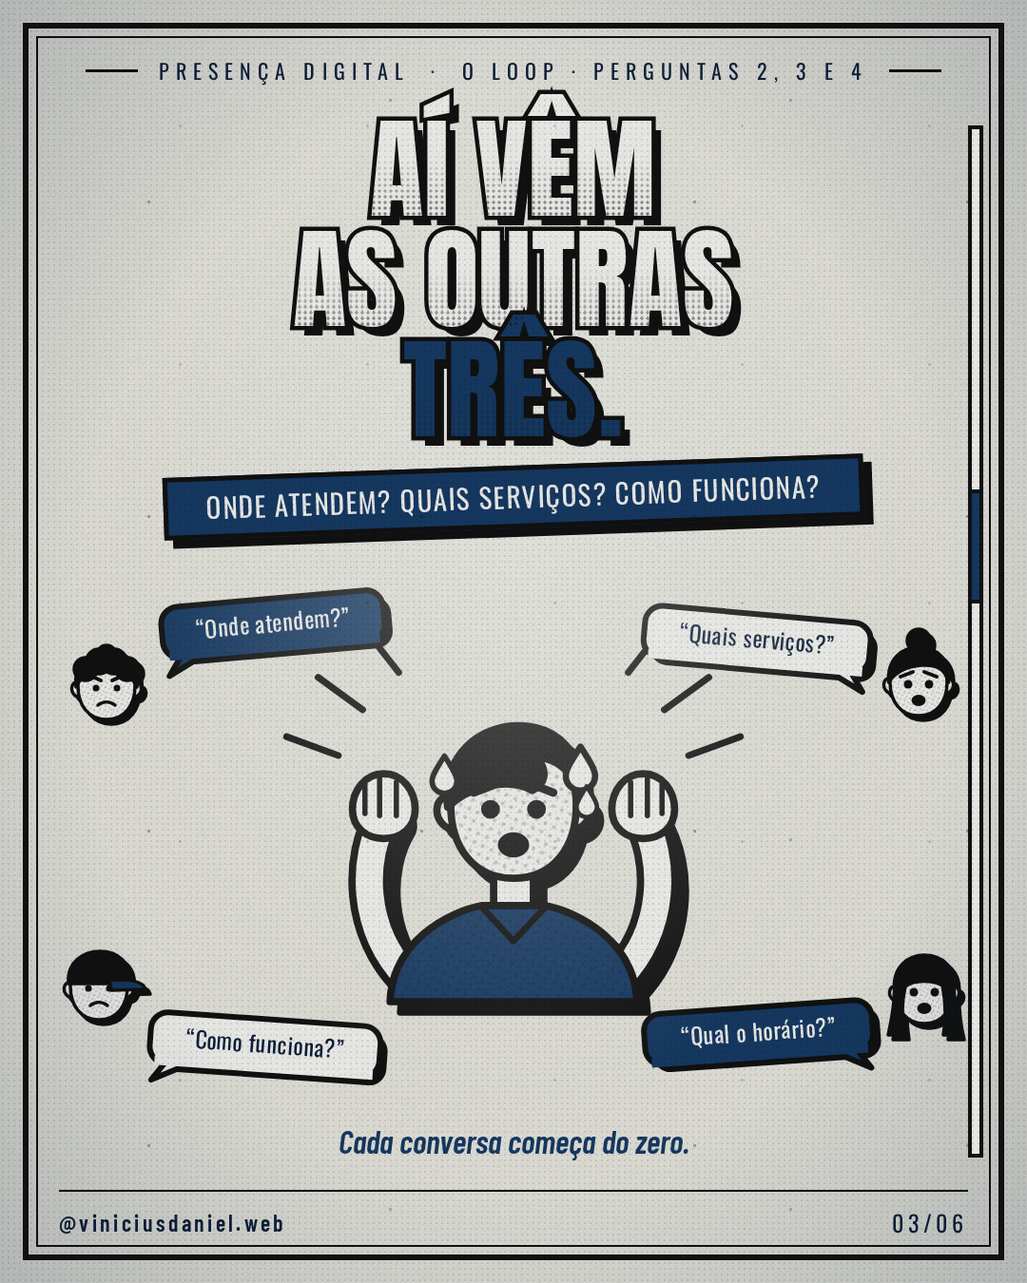
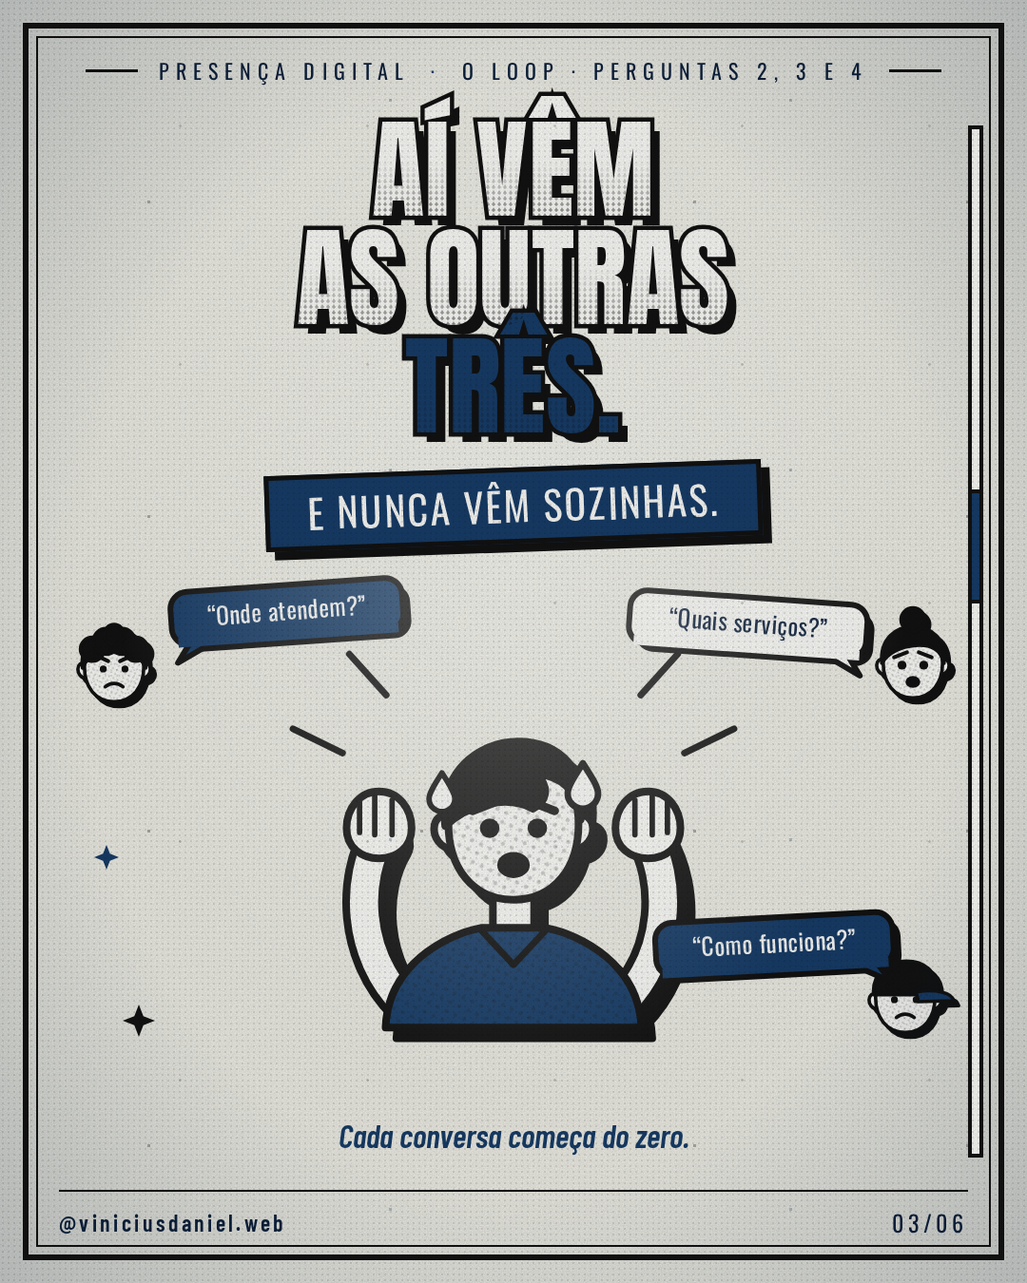
Alivia o quadro 3 e adiciona o prompt do Reels
Quadro 3: de quatro para três clientes e três balões, faixa mais curta
que não repete as perguntas, menos linhas de tensão, personagem central
maior com mais respiro.

PROMPT-REELS.md: prompt pronto para o Claude Designer com formato,
paleta, tipografia, área segura do Instagram, roteiro das 6 cenas com
tempo e animação, ritmo, áudio e restrições.

Claude-Session: https://claude.ai/code/session_01AyRMPHZabwp6dDTAK3QhXg

diff --git a/pages/link-03.html b/pages/link-03.html
@@ -9,8 +9,8 @@
 <div class="page" id="p3">
   <div class="kicker">PRESENÇA DIGITAL <em>·</em> O LOOP · PERGUNTAS 2, 3 E 4</div>
   
-    <div class="hl center" style="top:120px;font-size:116px;"><span class="l" data-t="AÍ VÊM">AÍ VÊM</span><span class="l" data-t="AS OUTRAS">AS OUTRAS</span><span class="l or" data-t="TRÊS.">TRÊS.</span></div>
-    <div class="band center" style="top:490px;font-size:29px;">ONDE ATENDEM? QUAIS SERVIÇOS? COMO FUNCIONA?</div>
+    <div class="hl center" style="top:122px;font-size:114px;"><span class="l" data-t="AÍ VÊM">AÍ VÊM</span><span class="l" data-t="AS OUTRAS">AS OUTRAS</span><span class="l or" data-t="TRÊS.">TRÊS.</span></div>
+    <div class="band center" style="top:492px;">E NUNCA VÊM SOZINHAS.</div>
     <svg class="art " style="display:block" width="1080" height="1350" viewBox="0 0 1080 1350" xmlns="http://www.w3.org/2000/svg">
 <defs>
   <pattern id="ht" width="9" height="9" patternUnits="userSpaceOnUse" patternTransform="rotate(25)">
@@ -26,8 +26,8 @@
     <rect width="4" height="10" fill="#111111"/>
   </pattern>
 </defs>
-      <line x1="355.820246325962" y1="794.9640519081689" x2="301.31807432037925" y2="775.1268835952801" stroke="#111111" stroke-width="7" stroke-linecap="round"/><line x1="381.4326691025103" y1="746.7940905506753" x2="334.5096834287633" y2="712.7025459177119" stroke="#111111" stroke-width="7" stroke-linecap="round"/><line x1="419.330350836171" y1="707.5498922930824" x2="383.62198526728287" y2="661.8452685838926" stroke="#111111" stroke-width="7" stroke-linecap="round"/><line x1="660.669649163829" y1="707.5498922930825" x2="696.3780147327172" y2="661.8452685838927" stroke="#111111" stroke-width="7" stroke-linecap="round"/><line x1="698.5673308974897" y1="746.7940905506753" x2="745.4903165712367" y2="712.7025459177117" stroke="#111111" stroke-width="7" stroke-linecap="round"/><line x1="724.179753674038" y1="794.9640519081689" x2="778.6819256796207" y2="775.1268835952802" stroke="#111111" stroke-width="7" stroke-linecap="round"/>
-      <g transform="translate(540,856) scale(1.1,1.1) rotate(0)">
+      <line x1="360.24119074016653" y1="792.3257706421846" x2="308.1111360548149" y2="766.9002441284181" stroke="#111111" stroke-width="7" stroke-linecap="round"/><line x1="406.1738787282283" y1="731.3710349045211" x2="367.3643035594145" y2="688.2686350268323" stroke="#111111" stroke-width="7" stroke-linecap="round"/><line x1="673.8261212717716" y1="731.3710349045211" x2="712.6356964405853" y2="688.2686350268322" stroke="#111111" stroke-width="7" stroke-linecap="round"/><line x1="719.7588092598335" y1="792.3257706421846" x2="771.8888639451851" y2="766.9002441284181" stroke="#111111" stroke-width="7" stroke-linecap="round"/>
+      <g transform="translate(540,876) scale(1.14,1.14) rotate(0)">
     <g transform="translate(10,10)"><path d="M -100,158 C -146,112 -146,42 -122,2" fill="none" stroke="#111111" stroke-width="40" stroke-linecap="round"/><path d="M 100,158 C 146,112 146,42 122,2" fill="none" stroke="#111111" stroke-width="40" stroke-linecap="round"/><path d="M -19,42 L -19,98 L 19,98 L 19,42 Z" fill="#111111" stroke="#111111" stroke-width="7" stroke-linejoin="round"/><path d="M -118,180 C -116,122 -62,94 -30,88 L 30,88 C 62,94 116,122 118,180 Z" fill="#111111" stroke="#111111" stroke-width="7" stroke-linejoin="round"/><path d="M -56,-16 C -78,-22 -80,12 -56,16 Z" fill="#111111" stroke="#111111" stroke-width="7" stroke-linejoin="round"/><path d="M 56,-16 C 78,-22 80,12 56,16 Z" fill="#111111" stroke="#111111" stroke-width="7" stroke-linejoin="round"/><path d="M 0,-68 C 38,-68 60,-44 60,-8 C 60,32 38,62 0,62 C -38,62 -60,32 -60,-8 C -60,-44 -38,-68 0,-68 Z" fill="#111111" stroke="#111111" stroke-width="7" stroke-linejoin="round"/><path d="M -63,-6 C -69,-56 -32,-84 4,-84 C 42,-84 70,-58 62,-12 C 58,-40 44,-52 22,-54 C 34,-40 30,-28 18,-22 C -4,-34 -40,-28 -63,-6 Z" fill="#111111" stroke="#111111" stroke-width="7" stroke-linejoin="round"/></g>
     <g ><path d="M -100,158 C -146,112 -146,42 -122,2" fill="none" stroke="#111111" stroke-width="40" stroke-linecap="round"/><path d="M -100,158 C -146,112 -146,42 -122,2" fill="none" stroke="#F7F7F4" stroke-width="26" stroke-linecap="round"/><path d="M 100,158 C 146,112 146,42 122,2" fill="none" stroke="#111111" stroke-width="40" stroke-linecap="round"/><path d="M 100,158 C 146,112 146,42 122,2" fill="none" stroke="#F7F7F4" stroke-width="26" stroke-linecap="round"/><path d="M -19,42 L -19,98 L 19,98 L 19,42 Z" fill="#F7F7F4" stroke="#111111" stroke-width="7" stroke-linejoin="round"/><path d="M -118,180 C -116,122 -62,94 -30,88 L 30,88 C 62,94 116,122 118,180 Z" fill="#163B66" stroke="#111111" stroke-width="7" stroke-linejoin="round"/><path d="M -56,-16 C -78,-22 -80,12 -56,16 Z" fill="#F7F7F4" stroke="#111111" stroke-width="7" stroke-linejoin="round"/><path d="M 56,-16 C 78,-22 80,12 56,16 Z" fill="#F7F7F4" stroke="#111111" stroke-width="7" stroke-linejoin="round"/><path d="M 0,-68 C 38,-68 60,-44 60,-8 C 60,32 38,62 0,62 C -38,62 -60,32 -60,-8 C -60,-44 -38,-68 0,-68 Z" fill="#F7F7F4" stroke="#111111" stroke-width="7" stroke-linejoin="round"/><path d="M -63,-6 C -69,-56 -32,-84 4,-84 C 42,-84 70,-58 62,-12 C 58,-40 44,-52 22,-54 C 34,-40 30,-28 18,-22 C -4,-34 -40,-28 -63,-6 Z" fill="#111111" stroke="#111111" stroke-width="7" stroke-linejoin="round"/></g>
     <path d="M 0,-68 C 38,-68 60,-44 60,-8 C 60,32 38,62 0,62 C -38,62 -60,32 -60,-8 C -60,-44 -38,-68 0,-68 Z" fill="url(#ht)" opacity=".22"/><path d="M -118,180 C -116,122 -62,94 -30,88 L 30,88 C 62,94 116,122 118,180 Z" fill="url(#ht)" opacity=".18"/>
@@ -37,8 +37,6 @@
     <g transform="translate(64,-44) scale(1)">
       <path d="M 0,-20 C 9,-6 14,2 14,8 A 14,14 0 0 1 -14,8 C -14,2 -9,-6 0,-20 Z" fill="#F7F7F4" stroke="#111111" stroke-width="6" stroke-linejoin="round"/>
     </g><g transform="translate(-66,-38) scale(0.85)">
-      <path d="M 0,-20 C 9,-6 14,2 14,8 A 14,14 0 0 1 -14,8 C -14,2 -9,-6 0,-20 Z" fill="#F7F7F4" stroke="#111111" stroke-width="6" stroke-linejoin="round"/>
-    </g><g transform="translate(70,-12) scale(0.7)">
       <path d="M 0,-20 C 9,-6 14,2 14,8 A 14,14 0 0 1 -14,8 C -14,2 -9,-6 0,-20 Z" fill="#F7F7F4" stroke="#111111" stroke-width="6" stroke-linejoin="round"/>
     </g>
     <path d="M -30,90 L 0,122 L 30,90" fill="none" stroke="#111111" stroke-width="6" stroke-linejoin="round"/>
@@ -54,7 +52,7 @@
         <line x1="18" y1="-20" x2="18" y2="8" stroke="#111111" stroke-width="5" stroke-linecap="round"/>
       </g>
   </g>
-      <g transform="translate(112,726) scale(0.5,0.5) rotate(0)">
+      <g transform="translate(120,706) scale(0.52,0.52) rotate(0)">
     <g transform="translate(10,10)"><path d="M -56,-16 C -78,-22 -80,12 -56,16 Z" fill="#111111" stroke="#111111" stroke-width="7" stroke-linejoin="round"/><path d="M 56,-16 C 78,-22 80,12 56,16 Z" fill="#111111" stroke="#111111" stroke-width="7" stroke-linejoin="round"/><path d="M 0,-68 C 38,-68 60,-44 60,-8 C 60,32 38,62 0,62 C -38,62 -60,32 -60,-8 C -60,-44 -38,-68 0,-68 Z" fill="#111111" stroke="#111111" stroke-width="7" stroke-linejoin="round"/><path d="M -64,-6 C -70,-54 -34,-84 0,-84 C 36,-84 70,-54 64,-6 C 54,-30 34,-42 0,-42 C -34,-42 -54,-30 -64,-6 Z" fill="#111111" stroke="#111111" stroke-width="7" stroke-linejoin="round"/><circle cx="-44" cy="-44" r="24" fill="#111111" stroke="#111111" stroke-width="7"/><circle cx="-16" cy="-60" r="26" fill="#111111" stroke="#111111" stroke-width="7"/><circle cx="16" cy="-60" r="26" fill="#111111" stroke="#111111" stroke-width="7"/><circle cx="44" cy="-44" r="24" fill="#111111" stroke="#111111" stroke-width="7"/><circle cx="0" cy="-74" r="20" fill="#111111" stroke="#111111" stroke-width="7"/></g>
     <g ><path d="M -56,-16 C -78,-22 -80,12 -56,16 Z" fill="#F7F7F4" stroke="#111111" stroke-width="7" stroke-linejoin="round"/><path d="M 56,-16 C 78,-22 80,12 56,16 Z" fill="#F7F7F4" stroke="#111111" stroke-width="7" stroke-linejoin="round"/><path d="M 0,-68 C 38,-68 60,-44 60,-8 C 60,32 38,62 0,62 C -38,62 -60,32 -60,-8 C -60,-44 -38,-68 0,-68 Z" fill="#F7F7F4" stroke="#111111" stroke-width="7" stroke-linejoin="round"/><path d="M -64,-6 C -70,-54 -34,-84 0,-84 C 36,-84 70,-54 64,-6 C 54,-30 34,-42 0,-42 C -34,-42 -54,-30 -64,-6 Z" fill="#111111" stroke="#111111" stroke-width="7" stroke-linejoin="round"/><circle cx="-44" cy="-44" r="24" fill="#111111" stroke="#111111" stroke-width="7"/><circle cx="-16" cy="-60" r="26" fill="#111111" stroke="#111111" stroke-width="7"/><circle cx="16" cy="-60" r="26" fill="#111111" stroke="#111111" stroke-width="7"/><circle cx="44" cy="-44" r="24" fill="#111111" stroke="#111111" stroke-width="7"/><circle cx="0" cy="-74" r="20" fill="#111111" stroke="#111111" stroke-width="7"/></g>
     <path d="M 0,-68 C 38,-68 60,-44 60,-8 C 60,32 38,62 0,62 C -38,62 -60,32 -60,-8 C -60,-44 -38,-68 0,-68 Z" fill="url(#ht)" opacity=".22"/>
@@ -65,7 +63,7 @@
     
     
   </g>
-      <g transform="translate(966,722) scale(0.5,0.5) rotate(0)">
+      <g transform="translate(960,702) scale(0.52,0.52) rotate(0)">
     <g transform="translate(10,10)"><path d="M -56,-16 C -78,-22 -80,12 -56,16 Z" fill="#111111" stroke="#111111" stroke-width="7" stroke-linejoin="round"/><path d="M 56,-16 C 78,-22 80,12 56,16 Z" fill="#111111" stroke="#111111" stroke-width="7" stroke-linejoin="round"/><path d="M 0,-68 C 38,-68 60,-44 60,-8 C 60,32 38,62 0,62 C -38,62 -60,32 -60,-8 C -60,-44 -38,-68 0,-68 Z" fill="#111111" stroke="#111111" stroke-width="7" stroke-linejoin="round"/><path d="M -63,-8 C -67,-58 -34,-82 0,-82 C 36,-82 69,-58 63,-8 C 56,-36 38,-46 6,-44 C -20,-42 -47,-33 -63,-8 Z" fill="#111111" stroke="#111111" stroke-width="7" stroke-linejoin="round"/><circle cx="0" cy="-96" r="24" fill="#111111" stroke="#111111" stroke-width="7"/></g>
     <g ><path d="M -56,-16 C -78,-22 -80,12 -56,16 Z" fill="#F7F7F4" stroke="#111111" stroke-width="7" stroke-linejoin="round"/><path d="M 56,-16 C 78,-22 80,12 56,16 Z" fill="#F7F7F4" stroke="#111111" stroke-width="7" stroke-linejoin="round"/><path d="M 0,-68 C 38,-68 60,-44 60,-8 C 60,32 38,62 0,62 C -38,62 -60,32 -60,-8 C -60,-44 -38,-68 0,-68 Z" fill="#F7F7F4" stroke="#111111" stroke-width="7" stroke-linejoin="round"/><path d="M -63,-8 C -67,-58 -34,-82 0,-82 C 36,-82 69,-58 63,-8 C 56,-36 38,-46 6,-44 C -20,-42 -47,-33 -63,-8 Z" fill="#111111" stroke="#111111" stroke-width="7" stroke-linejoin="round"/><circle cx="0" cy="-96" r="24" fill="#111111" stroke="#111111" stroke-width="7"/></g>
     <path d="M 0,-68 C 38,-68 60,-44 60,-8 C 60,32 38,62 0,62 C -38,62 -60,32 -60,-8 C -60,-44 -38,-68 0,-68 Z" fill="url(#ht)" opacity=".22"/>
@@ -76,7 +74,7 @@
     
     
   </g>
-      <g transform="translate(104,1042) scale(0.5,0.5) rotate(0)">
+      <g transform="translate(952,1054) scale(0.52,0.52) rotate(0)">
     <g transform="translate(10,10)"><path d="M -56,-16 C -78,-22 -80,12 -56,16 Z" fill="#111111" stroke="#111111" stroke-width="7" stroke-linejoin="round"/><path d="M 56,-16 C 78,-22 80,12 56,16 Z" fill="#111111" stroke="#111111" stroke-width="7" stroke-linejoin="round"/><path d="M 0,-68 C 38,-68 60,-44 60,-8 C 60,32 38,62 0,62 C -38,62 -60,32 -60,-8 C -60,-44 -38,-68 0,-68 Z" fill="#111111" stroke="#111111" stroke-width="7" stroke-linejoin="round"/><path d="M -64,-14 C -68,-60 -32,-82 2,-82 C 40,-82 70,-58 64,-14 Z" fill="#111111" stroke="#111111" stroke-width="7" stroke-linejoin="round"/><path d="M 22,-20 C 64,-26 94,-18 98,-2 L 26,0 Z" fill="#111111" stroke="#111111" stroke-width="7" stroke-linejoin="round"/></g>
     <g ><path d="M -56,-16 C -78,-22 -80,12 -56,16 Z" fill="#F7F7F4" stroke="#111111" stroke-width="7" stroke-linejoin="round"/><path d="M 56,-16 C 78,-22 80,12 56,16 Z" fill="#F7F7F4" stroke="#111111" stroke-width="7" stroke-linejoin="round"/><path d="M 0,-68 C 38,-68 60,-44 60,-8 C 60,32 38,62 0,62 C -38,62 -60,32 -60,-8 C -60,-44 -38,-68 0,-68 Z" fill="#F7F7F4" stroke="#111111" stroke-width="7" stroke-linejoin="round"/><path d="M -64,-14 C -68,-60 -32,-82 2,-82 C 40,-82 70,-58 64,-14 Z" fill="#111111" stroke="#111111" stroke-width="7" stroke-linejoin="round"/><path d="M 22,-20 C 64,-26 94,-18 98,-2 L 26,0 Z" fill="#163B66" stroke="#111111" stroke-width="7" stroke-linejoin="round"/></g>
     <path d="M 0,-68 C 38,-68 60,-44 60,-8 C 60,32 38,62 0,62 C -38,62 -60,32 -60,-8 C -60,-44 -38,-68 0,-68 Z" fill="url(#ht)" opacity=".22"/>
@@ -87,47 +85,30 @@
     
     
   </g>
-      <g transform="translate(972,1046) scale(0.5,0.5) rotate(0)">
-    <g transform="translate(10,10)"><path d="M -56,-16 C -78,-22 -80,12 -56,16 Z" fill="#111111" stroke="#111111" stroke-width="7" stroke-linejoin="round"/><path d="M 56,-16 C 78,-22 80,12 56,16 Z" fill="#111111" stroke="#111111" stroke-width="7" stroke-linejoin="round"/><path d="M 0,-68 C 38,-68 60,-44 60,-8 C 60,32 38,62 0,62 C -38,62 -60,32 -60,-8 C -60,-44 -38,-68 0,-68 Z" fill="#111111" stroke="#111111" stroke-width="7" stroke-linejoin="round"/><path d="M -63,-8 C -67,-58 -34,-82 0,-82 C 36,-82 69,-58 63,-8 C 63,34 68,62 74,86 L 40,86 C 46,50 44,10 38,-18 C 16,-30 -22,-30 -40,-16 C -46,10 -48,50 -42,86 L -76,86 C -70,58 -63,30 -63,-8 Z" fill="#111111" stroke="#111111" stroke-width="7" stroke-linejoin="round"/></g>
-    <g ><path d="M -56,-16 C -78,-22 -80,12 -56,16 Z" fill="#F7F7F4" stroke="#111111" stroke-width="7" stroke-linejoin="round"/><path d="M 56,-16 C 78,-22 80,12 56,16 Z" fill="#F7F7F4" stroke="#111111" stroke-width="7" stroke-linejoin="round"/><path d="M 0,-68 C 38,-68 60,-44 60,-8 C 60,32 38,62 0,62 C -38,62 -60,32 -60,-8 C -60,-44 -38,-68 0,-68 Z" fill="#F7F7F4" stroke="#111111" stroke-width="7" stroke-linejoin="round"/><path d="M -63,-8 C -67,-58 -34,-82 0,-82 C 36,-82 69,-58 63,-8 C 63,34 68,62 74,86 L 40,86 C 46,50 44,10 38,-18 C 16,-30 -22,-30 -40,-16 C -46,10 -48,50 -42,86 L -76,86 C -70,58 -63,30 -63,-8 Z" fill="#111111" stroke="#111111" stroke-width="7" stroke-linejoin="round"/></g>
-    <path d="M 0,-68 C 38,-68 60,-44 60,-8 C 60,32 38,62 0,62 C -38,62 -60,32 -60,-8 C -60,-44 -38,-68 0,-68 Z" fill="url(#ht)" opacity=".22"/>
-    <circle cx="-22" cy="-4" r="9" fill="#111111"/><circle cx="22" cy="-4" r="9" fill="#111111"/>
-    <line x1="-38" y1="-20" x2="-12" y2="-30" stroke="#111111" stroke-width="8" stroke-linecap="round"/><line x1="38" y1="-20" x2="12" y2="-30" stroke="#111111" stroke-width="8" stroke-linecap="round"/>
-    <ellipse cx="0" cy="30" rx="15" ry="12" fill="#111111"/>
-    
-    
-    
+      <g transform="translate(178,624) rotate(-4)">
+    <rect x="8" y="8" width="244" height="56" rx="18" fill="#111111"/>
+    <rect x="0" y="0" width="244" height="56" rx="18" fill="#163B66" stroke="#111111" stroke-width="6" />
+    <polygon points="18,54 4,74 44,54" fill="#163B66" stroke="#111111" stroke-width="6" stroke-linejoin="round"/>
+    <rect x="6" y="48" width="232" height="10" fill="#163B66"/>
+    <text x="122" y="37" font-family="Barlow Condensed" font-weight="700" font-size="25" fill="#F7F7F4" text-anchor="middle" letter-spacing=".02em"  >“Onde atendem?”</text>
   </g>
-      <g transform="translate(168,640) rotate(-5)">
-    <rect x="8" y="8" width="234" height="54" rx="18" fill="#111111"/>
-    <rect x="0" y="0" width="234" height="54" rx="18" fill="#163B66" stroke="#111111" stroke-width="6" />
-    <polygon points="18,52 4,72 44,52" fill="#163B66" stroke="#111111" stroke-width="6" stroke-linejoin="round"/>
-    <rect x="6" y="46" width="222" height="10" fill="#163B66"/>
-    <text x="117" y="35.64" font-family="Barlow Condensed" font-weight="700" font-size="24" fill="#F7F7F4" text-anchor="middle" letter-spacing=".02em"  >“Onde atendem?”</text>
+      <g transform="translate(664,620) rotate(4)">
+    <rect x="8" y="8" width="250" height="56" rx="18" fill="#111111"/>
+    <rect x="0" y="0" width="250" height="56" rx="18" fill="#F7F7F4" stroke="#111111" stroke-width="6" />
+    <polygon points="232,54 246,74 206,54" fill="#F7F7F4" stroke="#111111" stroke-width="6" stroke-linejoin="round"/>
+    <rect x="6" y="48" width="238" height="10" fill="#F7F7F4"/>
+    <text x="125" y="37" font-family="Barlow Condensed" font-weight="700" font-size="25" fill="#0B1F3A" text-anchor="middle" letter-spacing=".02em"  >“Quais serviços?”</text>
   </g>
-      <g transform="translate(680,636) rotate(5)">
-    <rect x="8" y="8" width="238" height="54" rx="18" fill="#111111"/>
-    <rect x="0" y="0" width="238" height="54" rx="18" fill="#F7F7F4" stroke="#111111" stroke-width="6" />
-    <polygon points="220,52 234,72 194,52" fill="#F7F7F4" stroke="#111111" stroke-width="6" stroke-linejoin="round"/>
-    <rect x="6" y="46" width="226" height="10" fill="#F7F7F4"/>
-    <text x="119" y="35.64" font-family="Barlow Condensed" font-weight="700" font-size="24" fill="#0B1F3A" text-anchor="middle" letter-spacing=".02em"  >“Quais serviços?”</text>
+      <g transform="translate(688,972) rotate(-3)">
+    <rect x="8" y="8" width="250" height="56" rx="18" fill="#111111"/>
+    <rect x="0" y="0" width="250" height="56" rx="18" fill="#163B66" stroke="#111111" stroke-width="6" />
+    <polygon points="232,54 246,74 206,54" fill="#163B66" stroke="#111111" stroke-width="6" stroke-linejoin="round"/>
+    <rect x="6" y="48" width="238" height="10" fill="#163B66"/>
+    <text x="125" y="37" font-family="Barlow Condensed" font-weight="700" font-size="25" fill="#F7F7F4" text-anchor="middle" letter-spacing=".02em"  >“Como funciona?”</text>
   </g>
-      <g transform="translate(160,1064) rotate(4)">
-    <rect x="8" y="8" width="242" height="54" rx="18" fill="#111111"/>
-    <rect x="0" y="0" width="242" height="54" rx="18" fill="#F7F7F4" stroke="#111111" stroke-width="6" />
-    <polygon points="18,52 4,72 44,52" fill="#F7F7F4" stroke="#111111" stroke-width="6" stroke-linejoin="round"/>
-    <rect x="6" y="46" width="230" height="10" fill="#F7F7F4"/>
-    <text x="121" y="35.64" font-family="Barlow Condensed" font-weight="700" font-size="24" fill="#0B1F3A" text-anchor="middle" letter-spacing=".02em"  >“Como funciona?”</text>
-  </g>
-      <g transform="translate(676,1068) rotate(-4)">
-    <rect x="8" y="8" width="240" height="54" rx="18" fill="#111111"/>
-    <rect x="0" y="0" width="240" height="54" rx="18" fill="#163B66" stroke="#111111" stroke-width="6" />
-    <polygon points="222,52 236,72 196,52" fill="#163B66" stroke="#111111" stroke-width="6" stroke-linejoin="round"/>
-    <rect x="6" y="46" width="228" height="10" fill="#163B66"/>
-    <text x="120" y="35.64" font-family="Barlow Condensed" font-weight="700" font-size="24" fill="#F7F7F4" text-anchor="middle" letter-spacing=".02em"  >“Qual o horário?”</text>
-  </g>
+      <polygon points="146,1057 150.76,1069.24 163,1074 150.76,1078.76 146,1091 141.24,1078.76 129,1074 141.24,1069.24" fill="#111111"/> <polygon points="112,889 115.64,898.36 125,902 115.64,905.64 112,915 108.36,905.64 99,902 108.36,898.36" fill="#163B66"/>
     </svg>
-    <div class="txt serifish" style="top:1182px;left:0px;right:0px;font-size:34px;font-weight:600">Cada conversa começa do zero.</div>
+    <div class="txt serifish" style="top:1176px;left:0px;right:0px;font-size:34px;font-weight:600">Cada conversa começa do zero.</div>
   
   <div class="frame"></div>
   <div class="scroll"><div class="thumb" style="top:379px"></div></div>

diff --git a/PROMPT-REELS.md b/PROMPT-REELS.md
@@ -1,0 +1,131 @@
+# Prompt para o Claude Designer — Reels "As 4 perguntas"
+
+Copie tudo abaixo da linha e cole no Claude Designer. Anexe junto os seis PNGs
+`output/link-01.png` … `link-06.png` como referência visual.
+
+---
+
+Preciso de um Reels vertical a partir dos 6 quadros anexados. Eles já estão
+aprovados: são a referência visual obrigatória. Não redesenhe a identidade,
+apenas adapte para vídeo e coloque em movimento.
+
+## FORMATO
+
+- 1080 × 1920 px, 9:16
+- Duração total entre 20 e 26 segundos
+- Deve funcionar **sem som**: toda a mensagem precisa estar na tela
+- Entregar também um frame de capa (thumbnail) em 1080 × 1350
+
+## SISTEMA VISUAL — NÃO ALTERAR
+
+Paleta (apenas estas cinco cores, nada além):
+
+| Uso | Hex |
+| --- | --- |
+| Fundo creme / papel envelhecido | `#E9E9E1` |
+| Branco / off-white | `#F7F7F4` |
+| Azul-marinho principal | `#163B66` |
+| Azul profundo (áreas secundárias) | `#0B1F3A` |
+| Preto (contornos e sombras) | `#111111` |
+
+- Tipografia: **Anton** nas headlines, **Oswald** nas faixas e etiquetas,
+  **Barlow Condensed** nos textos de apoio. Sem substituições.
+- Headlines em off-white com contorno preto grosso e sombra preta deslocada.
+  As linhas de destaque em azul-marinho.
+- Faixas azuis com texto branco, borda preta e sombra preta deslocada.
+- Contorno preto de espessura constante em todos os elementos, sombra sempre
+  deslocada no mesmo ângulo (para baixo e para a direita).
+- Textura: halftone sutil, grão de impressão e pequenas imperfeições.
+  Estética de pôster editorial retrô e quadrinho vintage.
+- Personagens: mesmo traço dos quadros anexados. Rostos off-white, cabelos
+  pretos chapados, contorno grosso, sem sombreado realista.
+
+## ÁREA SEGURA DO INSTAGRAM
+
+Mantenha texto e rostos entre **y = 340** e **y = 1520**. A interface do Reels
+cobre o topo e a base. O rodapé com `@viniciusdaniel.web` pode ficar por volta
+de y = 1560, discreto, presente em todas as cenas.
+
+## ROTEIRO — 6 CENAS
+
+**Cena 1 · 0,0 a 3,0 s — O gancho**
+Texto: **DE NOVO A MESMA PERGUNTA.**
+Personagem central digitando no celular, cansado, com gotas de suor.
+Animação: a headline entra batendo (escala 1,15 → 1,0 em 0,2 s, sem elástico).
+Os quatro balões de pergunta aparecem um a um a cada 0,25 s, cada um com um
+pequeno tranco. Explosão azul atrás do personagem pulsando de leve.
+
+**Cena 2 · 3,0 a 6,5 s — A primeira pergunta**
+Texto: **"QUAL O HORÁRIO?"** e a faixa **VOCÊ RESPONDE. DE NOVO.**
+Cliente à esquerda com o celular erguido, dono à direita digitando.
+Animação: a headline ocupa a tela inteira e recua para dar lugar aos
+personagens. Seta azul atravessa da esquerda para a direita. Balão
+"Das 8 às 18h." surge do lado do dono.
+
+**Cena 3 · 6,5 a 11,0 s — O acúmulo**
+Texto: **AÍ VÊM AS OUTRAS TRÊS.** e a faixa **E NUNCA VÊM SOZINHAS.**
+Dono no centro com as mãos erguidas, três clientes ao redor.
+Animação: esta é a cena de maior ritmo. Cada cliente entra com seu balão em
+sequência rápida, a cada 0,4 s, com um leve tremor da tela a cada entrada.
+As linhas de tensão ao redor do personagem crescem a cada balão novo.
+Termina com tudo na tela ao mesmo tempo e uma pausa curta de silêncio visual.
+
+**Cena 4 · 11,0 a 15,0 s — O custo**
+Texto: **VOCÊ VIROU O FAQ DA SUA EMPRESA.** e a faixa
+**MESMO TEXTO. OUTRA PESSOA.**
+Três balões idênticos "Das 8 às 18h." empilhados e uma seta circular de
+repetição.
+Animação: os balões caem um sobre o outro, do topo, com peso. A seta circular
+gira uma volta completa e para.
+Texto de apoio: *O tempo que você gasta repetindo é o tempo que você não está
+atendendo.*
+
+**Cena 5 · 15,0 a 20,0 s — A virada**
+Texto: **AÍ VOCÊ MANDA UM LINK.** e a faixa **UMA VEZ. PARA TODO MUNDO.**
+Personagem sorrindo apontando para a janela do site.
+Animação: corte seco e mudança de ritmo, tudo desacelera. A barra de endereço
+`suaempresa.com.br` é digitada letra por letra. A janela do site sobe de baixo
+e as cinco seções (SERVIÇOS, REGIÃO, PROCESSO, HORÁRIO, CONTATO) aparecem
+de cima para baixo, uma a cada 0,15 s.
+
+**Cena 6 · 20,0 a 25,0 s — O fechamento**
+Texto: **VOCÊ PARA DE REPETIR. O SITE EXPLICA.**
+Faixa: **QUER VER COMO FICARIA O SEU?**
+Botão: **ME CHAMA NO DIRECT.**
+Personagem com o celular erguido, avião de papel saindo em direção ao canto.
+Animação: o avião de papel cruza a tela e some. O botão do direct entra por
+último, com um tranco, e fica parado até o fim.
+Linha final pequena: SEU PRÓXIMO LINK PODE SER O SEU SITE.
+
+## RITMO E TRANSIÇÕES
+
+- Cenas 1 a 4: ritmo acelerado, cortes secos, sensação de acúmulo e sufoco.
+- Cena 5: quebra de ritmo. Tudo respira. É a virada emocional.
+- Cena 6: firme e parado, para o CTA ser lido com calma.
+- Transições: corte seco ou deslize vertical curto. Sem fade, sem zoom
+  cinematográfico, sem desfoque.
+- Movimento no estilo animação em recortes de papel: elementos entram com
+  tranco e param. Nada de suavização longa.
+
+## ÁUDIO
+
+- Som de notificação de mensagem nas cenas 1, 3 e 4, sincronizado com a entrada
+  de cada balão.
+- Silêncio ou corte no áudio no começo da cena 5, para marcar a virada.
+- Trilha instrumental discreta. Sem locução.
+- Legendas embutidas se houver narração.
+
+## NÃO FAZER
+
+- Não usar outras cores além das cinco listadas.
+- Não usar gradientes digitais, brilhos, 3D ou sombras suaves.
+- Não trocar as fontes.
+- Não usar estética clean moderna nem template genérico de Reels.
+- Não inventar estatísticas, porcentagens ou promessas de resultado.
+- Não remover o `@viniciusdaniel.web`.
+
+## ENTREGÁVEIS
+
+1. O vídeo em 1080 × 1920, entre 20 e 26 segundos.
+2. O frame de capa em 1080 × 1350.
+3. Os arquivos editáveis, para eu ajustar tempo e textos depois.
